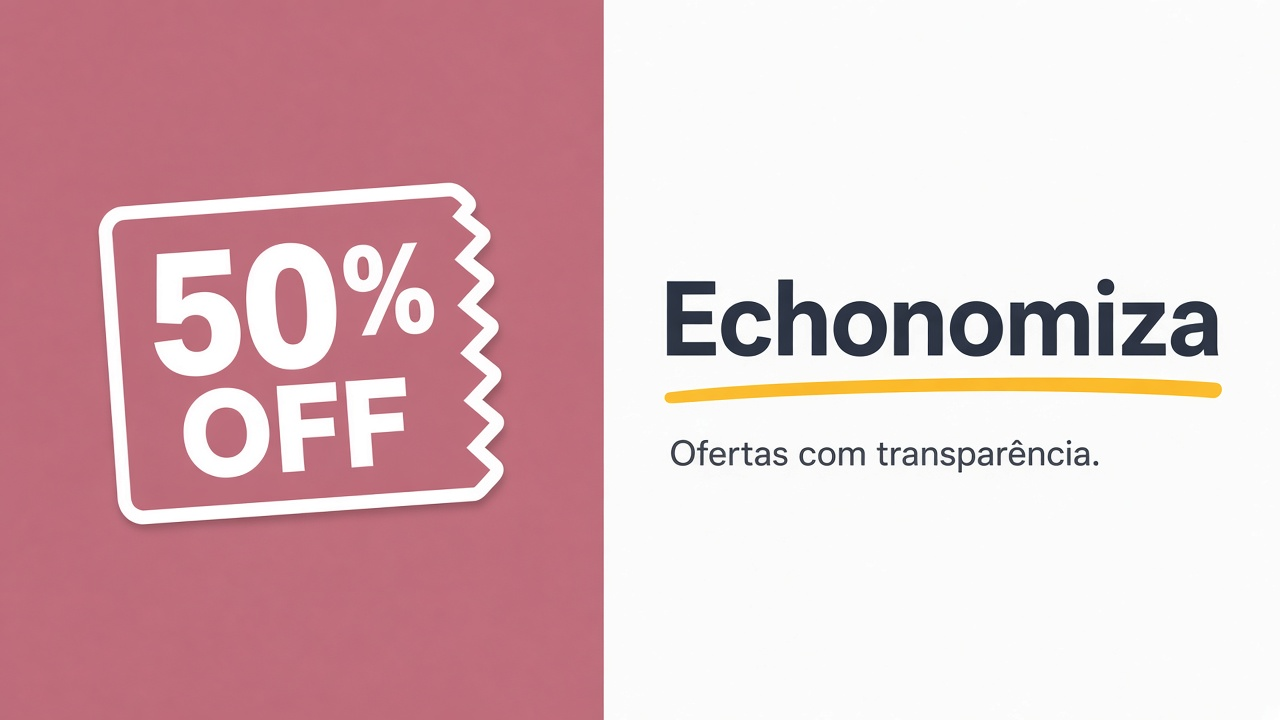
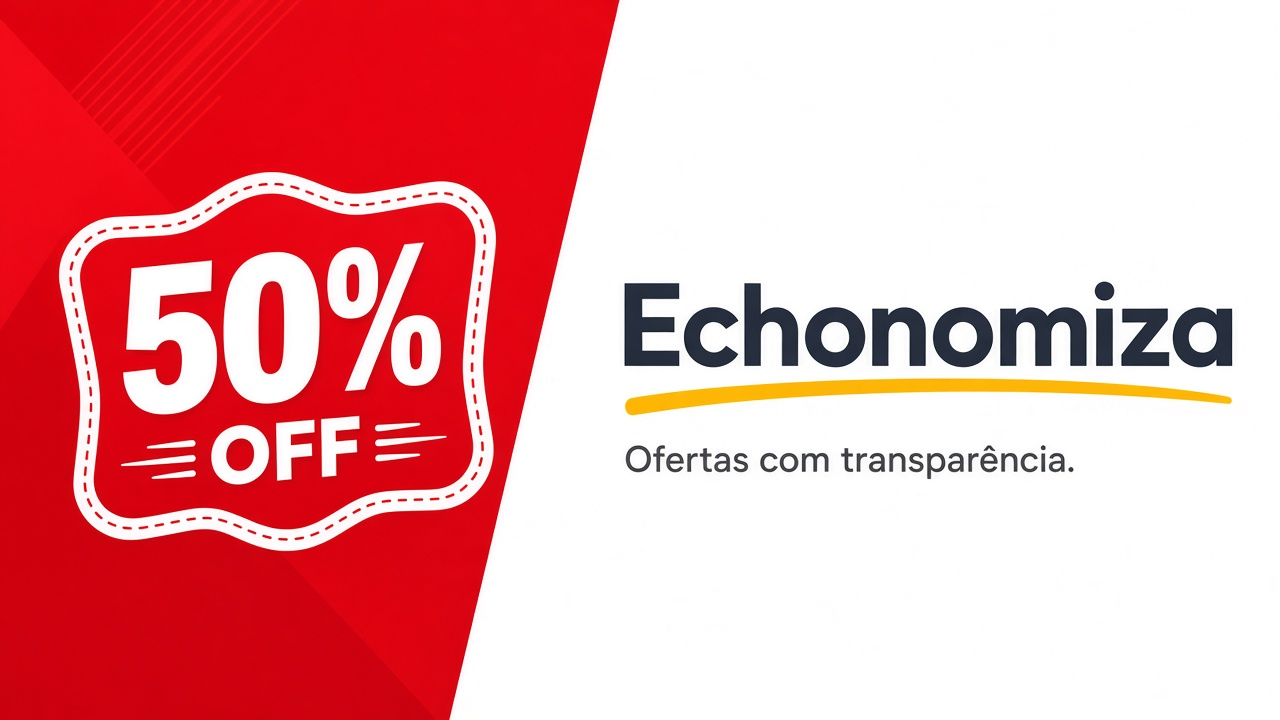
Boost brand red saturation for a more vivid look.

diff --git a/frontend/tailwind.config.js b/frontend/tailwind.config.js
@@ -10,19 +10,19 @@ module.exports = {
         sans: ["var(--font-outfit)", "ui-sans-serif", "system-ui", "sans-serif"],
       },
       colors: {
-        // Vermelho vibrante com 20% menos saturação (menos vivo)
+        // Vermelho vibrante — saturação alta
         brand: {
-          50: "#f7f3f4",
-          100: "#f1e9eb",
-          200: "#e5d5d9",
-          300: "#d5bcc2",
-          400: "#c29ea7",
-          500: "#b2858f",
-          600: "#a16a77",
-          700: "#8e5d69",
-          800: "#7e535d",
-          900: "#6d4851",
-          950: "#593a41",
+          50: "#fceef1",
+          100: "#fadfe5",
+          200: "#f5c4cf",
+          300: "#f0a0b2",
+          400: "#e9768f",
+          500: "#e35272",
+          600: "#dd2c53",
+          700: "#c22749",
+          800: "#ac2241",
+          900: "#961e38",
+          950: "#7a182e",
         },
         // Amarelo quente — cupons, frete grátis e preço novo
         accent: {

diff --git a/frontend/app/globals.css b/frontend/app/globals.css
@@ -5,7 +5,7 @@
 :root {
   --background: #ffffff;
   --foreground: #1f2937;
-  --brand: #a16a77;
+  --brand: #dd2c53;
   --accent: #facc15;
   --surface: #ffffff;
 }
@@ -13,7 +13,7 @@
 body {
   color: var(--foreground);
   background:
-    radial-gradient(ellipse 70% 45% at 0% -5%, rgba(161, 106, 119, 0.08), transparent),
+    radial-gradient(ellipse 70% 45% at 0% -5%, rgba(221, 44, 83, 0.07), transparent),
     radial-gradient(ellipse 50% 35% at 100% 0%, rgba(250, 204, 21, 0.08), transparent),
     var(--background);
   min-height: 100vh;

diff --git a/frontend/app/page.tsx b/frontend/app/page.tsx
@@ -35,7 +35,7 @@ export default async function HomePage() {
       <section className="relative overflow-hidden border-b border-brand-700 bg-white">
         <div
           aria-hidden
-          className="absolute inset-0 bg-[linear-gradient(135deg,#7e535d_0%,#a16a77_48%,#b2858f_100%)]"
+          className="absolute inset-0 bg-[linear-gradient(135deg,#ac2241_0%,#dd2c53_48%,#e35272_100%)]"
         />
         <div
           aria-hidden
